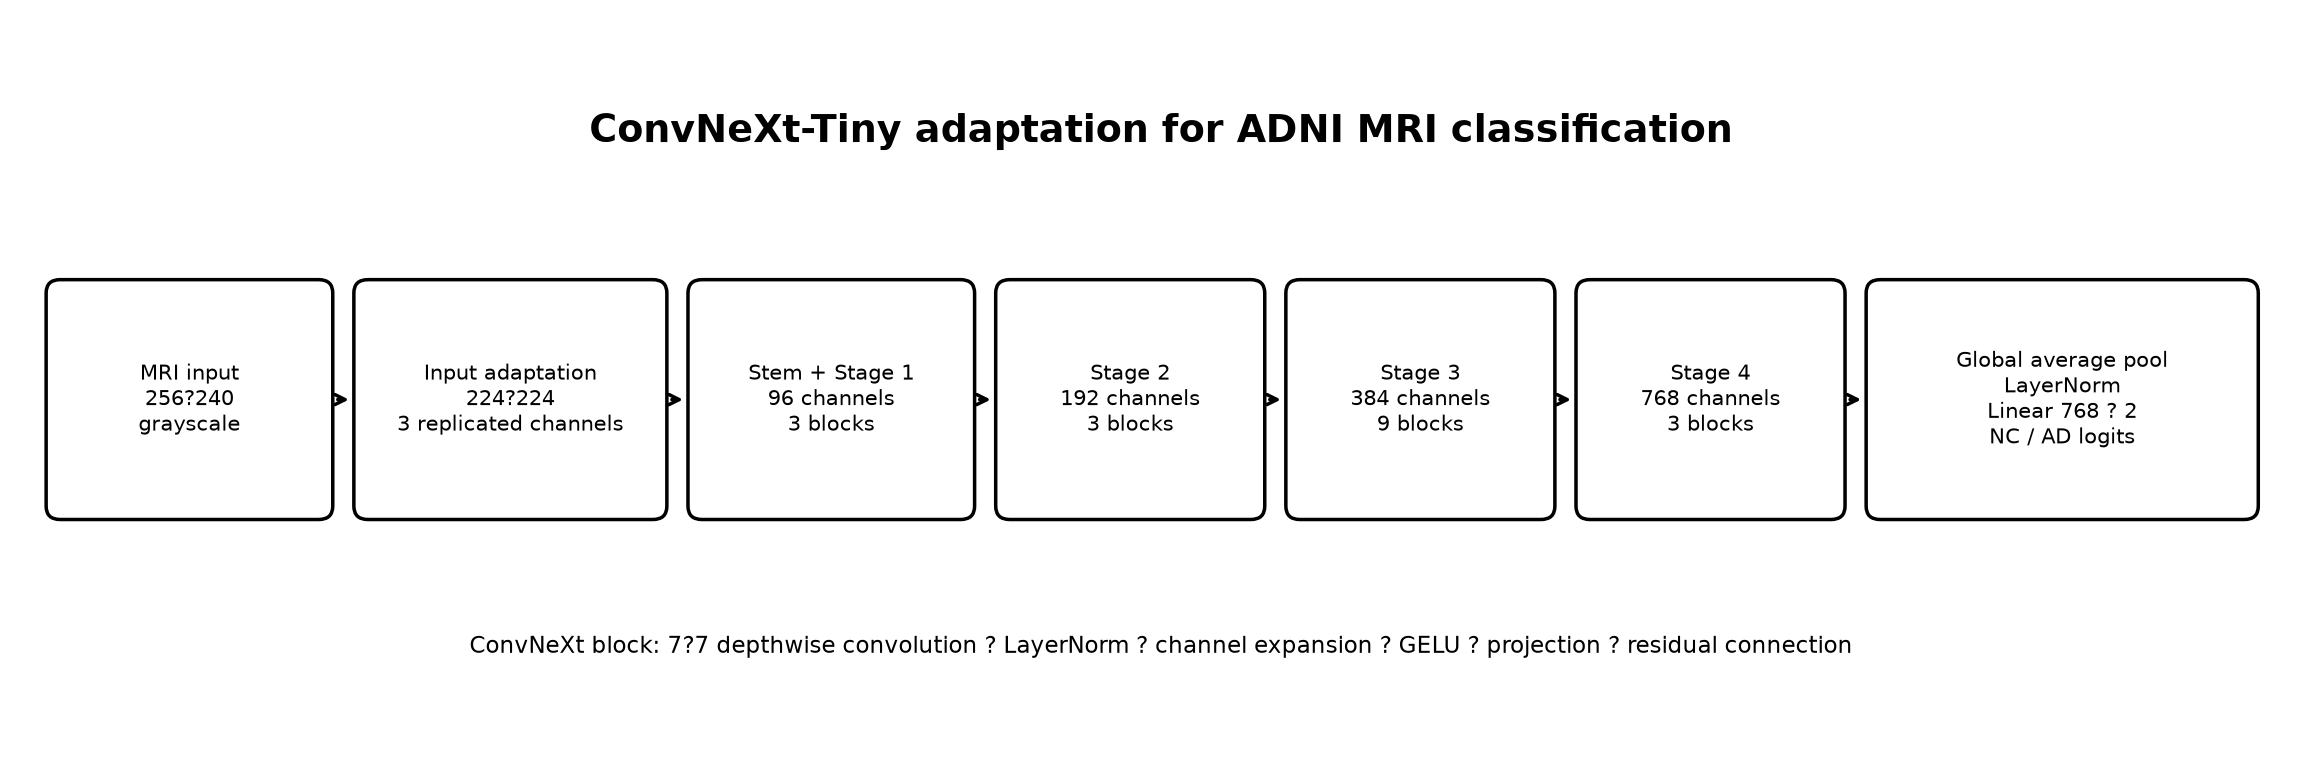
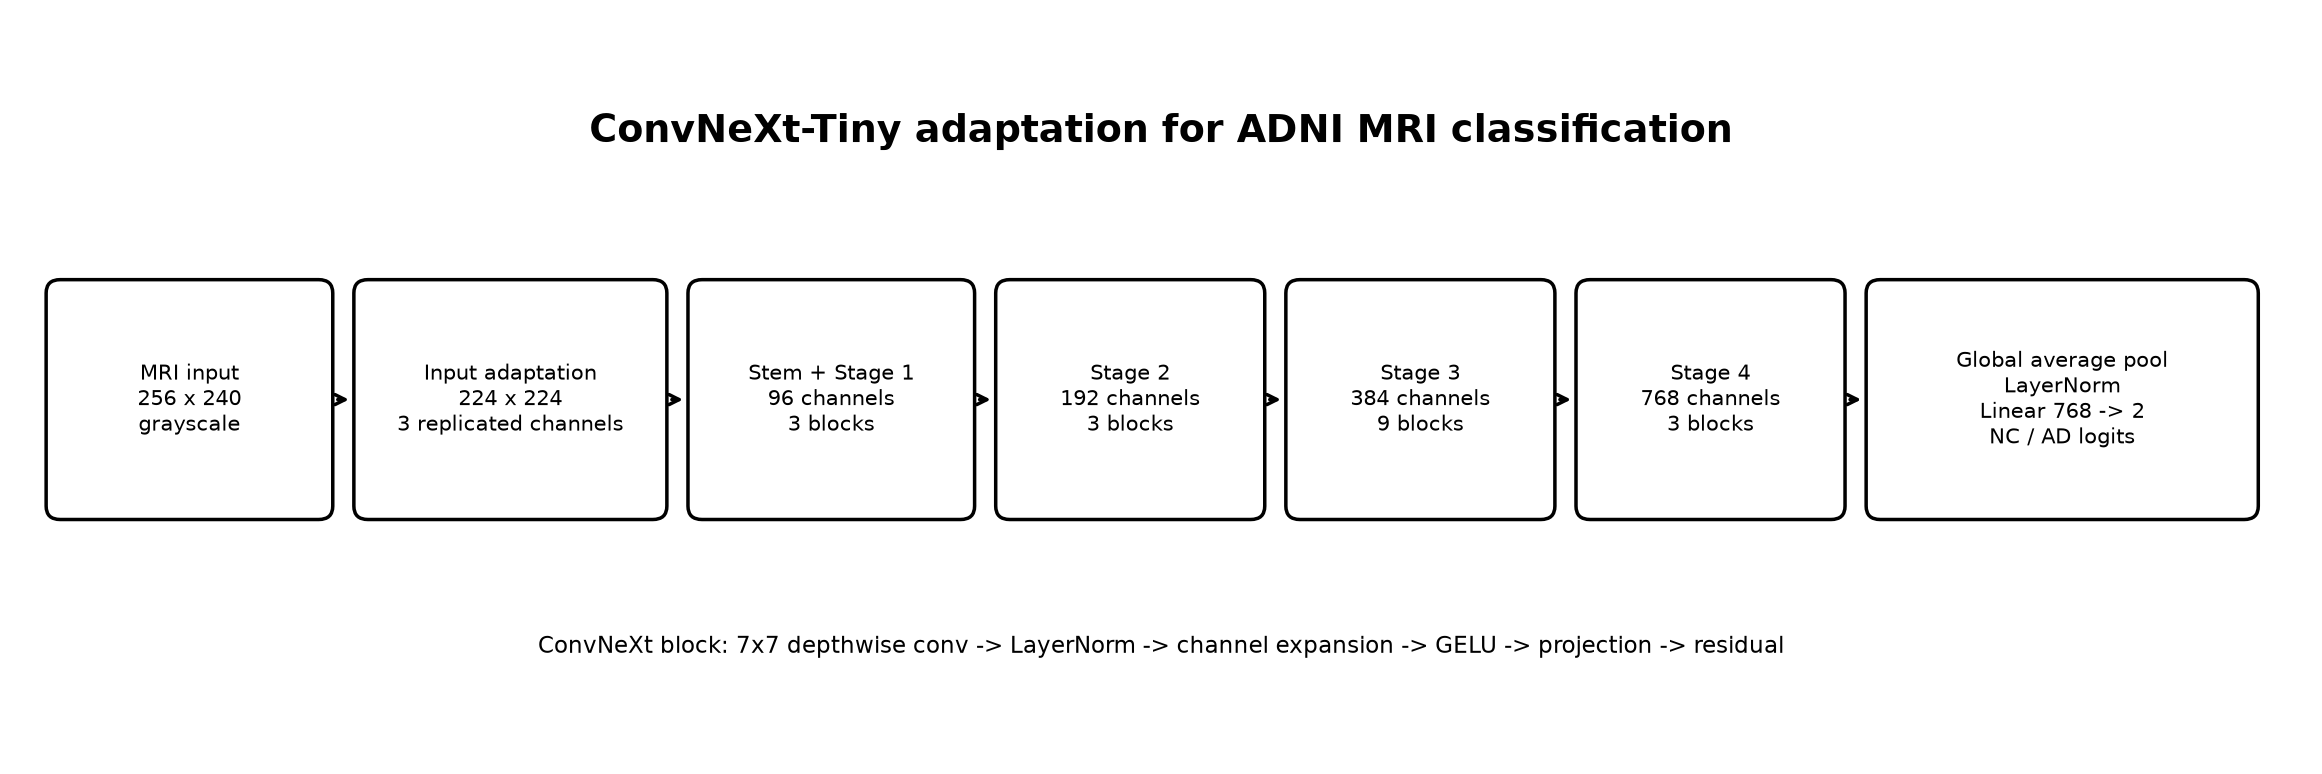
fix: repair README and figure text encoding

diff --git a/recognition/ConvNeXt_s4983318/README.md b/recognition/ConvNeXt_s4983318/README.md
@@ -82,23 +82,23 @@ The baseline is a four-block network with channel progression **3 → 16 → 32 
 
 `modules.py` constructs TorchVision `convnext_tiny` and replaces its final classifier layer with a two-output `torch.nn.Linear`. The recorded model uses **ImageNet-1K V1 pretrained weights** and fine-tunes the network for AD/NC. **27,821,666 parameters**. The architecture is **reused from TorchVision** rather than implemented independently layer-by-layer; this is disclosed for clarity and attribution [2, 3].
 
-ConvNeXt remains a convolutional neural network, but modernizes the conventional CNN design using several ideas associated with transformer-era vision systems. A ConvNeXt block first applies a **7 ? 7 depthwise convolution** to mix spatial information independently within each feature channel. It then applies **LayerNorm**, expands the channel representation using a pointwise transformation, applies **GELU**, projects the representation back to its original width, and adds a **residual connection**. This separates spatial mixing from channel mixing while preserving stable gradient flow through a deep network.
+ConvNeXt remains a convolutional neural network, but modernizes the conventional CNN design using several ideas associated with transformer-era vision systems. A ConvNeXt block first applies a **7 x 7 depthwise convolution** to mix spatial information independently within each feature channel. It then applies **LayerNorm**, expands the channel representation using a pointwise transformation, applies **GELU**, projects the representation back to its original width, and adds a **residual connection**. This separates spatial mixing from channel mixing while preserving stable gradient flow through a deep network.
 
 ConvNeXt-Tiny contains four hierarchical stages with block depths **[3, 3, 9, 3]** and channel widths **[96, 192, 384, 768]**. Downsampling between stages progressively reduces spatial resolution while increasing feature width. Earlier stages therefore represent relatively local intensity and edge patterns, while later stages combine information over larger image regions and can encode broader structural patterns.
 
-For this ADNI task, each grayscale MRI slice is resized and padded to **224 ? 224**, then replicated into three identical channels so that the pretrained ImageNet stem can be reused. After the final ConvNeXt stage, global average pooling and normalization produce a compact feature representation. The original ImageNet classification head is replaced by a **768 ? 2** linear layer producing raw NC/AD logits.
+For this ADNI task, each grayscale MRI slice is resized and padded to **224 x 224**, then replicated into three identical channels so that the pretrained ImageNet stem can be reused. After the final ConvNeXt stage, global average pooling and normalization produce a compact feature representation. The original ImageNet classification head is replaced by a **768 -> 2** linear layer producing raw NC/AD logits.
 
 ![ConvNeXt-Tiny adaptation for ADNI classification](figures/convnext_architecture.png)
 
 | ConvNeXt component | Working principle | Role in this ADNI pipeline |
 |---|---|---|
-| Input adaptation | Grayscale slice ? 3 replicated channels, 224 ? 224 | Matches the pretrained TorchVision input interface |
+| Input adaptation | Grayscale slice -> 3 replicated channels, 224 x 224 | Matches the pretrained TorchVision input interface |
 | Stem / downsampling | Strided convolutions progressively reduce spatial resolution | Builds a hierarchical representation while controlling computation |
-| ConvNeXt block | 7 ? 7 depthwise spatial mixing + LayerNorm + pointwise channel mixing + GELU + residual connection | Combines spatial and channel information efficiently |
+| ConvNeXt block | 7 x 7 depthwise spatial mixing + LayerNorm + pointwise channel mixing + GELU + residual connection | Combines spatial and channel information efficiently |
 | Four stages | Depths [3, 3, 9, 3], widths [96, 192, 384, 768] | Progresses from lower-level appearance cues to broader structural features |
-| Classification head | Global average pooling + normalization + 768 ? 2 linear layer | Produces raw NC/AD logits |
+| Classification head | Global average pooling + normalization + 768 -> 2 linear layer | Produces raw NC/AD logits |
 
-The baseline and ConvNeXt both output logits `[batch, 2]`. The loss is `CrossEntropyLoss` on unnormalized logits; softmax is applied only when probabilities are needed for evaluation. ConvNeXt's substantially greater representational capacity can improve recognition, but that capacity may also amplify shortcut features or produce sharply confident mistakes. This motivates the calibration and failure analysis in Sections 7?8.
+The baseline and ConvNeXt both output logits `[batch, 2]`. The loss is `CrossEntropyLoss` on unnormalized logits; softmax is applied only when probabilities are needed for evaluation. ConvNeXt's substantially greater representational capacity can improve recognition, but that capacity may also amplify shortcut features or produce sharply confident mistakes. This motivates the calibration and failure analysis in Sections 7-8.
 
 ### 4.3 Experimental settings and checkpoint policy
 
@@ -222,9 +222,9 @@ A model input is one preprocessed MRI slice represented as a tensor of shape `[3
 
 | Stage | Example |
 |---|---|
-| Preprocessed input | One grayscale MRI slice ? tensor `[3, 224, 224]` |
+| Preprocessed input | One grayscale MRI slice -> tensor `[3, 224, 224]` |
 | Slice ground truth | NC |
-| Slice output | `P(AD) = 0.50146` ? predicted AD, confidence 0.50146 |
+| Slice output | `P(AD) = 0.50146` -> predicted AD, confidence 0.50146 |
 | Patient aggregation | Mean `P(AD) = 0.0978` across that patient's slices |
 | Patient output | Predicted NC, confidence 0.9022 |
 | Review rule at 0.90 | Patient classification provisionally accepted |
@@ -290,7 +290,7 @@ These intervals quantify sampling uncertainty within the 102-patient held-out te
 
 #### 6.2.2 Paired comparison of ConvNeXt and the baseline
 
-Because both models were evaluated on the **same 102 patients**, model differences were also analysed using a **paired stratified patient bootstrap**. Each bootstrap replicate sampled the same patient IDs for both models while preserving the observed NC/AD composition. The reported difference is `ConvNeXt ? Baseline`.
+Because both models were evaluated on the **same 102 patients**, model differences were also analysed using a **paired stratified patient bootstrap**. Each bootstrap replicate sampled the same patient IDs for both models while preserving the observed NC/AD composition. The reported difference is `ConvNeXt - Baseline`.
 
 | Metric difference | Point difference | 95% paired bootstrap CI |
 |---|---:|---:|
@@ -343,31 +343,31 @@ ConvNeXt would send fewer cases to review at a similar observed accepted-case ac
 
 ## 8. Failure case autopsy: five actual test-set slice errors
 
-Five errors were chosen deterministically by the evaluation script: two high-confidence **AD ? NC** (false negatives), two high-confidence **NC ? AD** (false positives), and one low-confidence/borderline incorrect slice. They correspond to **five distinct patients**. The table checks whether each slice error persists after patient-level aggregation. Individual patient identifiers and original MRI pictures are intentionally excluded from this public README pending data-governance review.
+Five errors were chosen deterministically by the evaluation script: two high-confidence **AD -> NC** (false negatives), two high-confidence **NC -> AD** (false positives), and one low-confidence/borderline incorrect slice. They correspond to **five distinct patients**. The table checks whether each slice error persists after patient-level aggregation. Individual patient identifiers and original MRI pictures are intentionally excluded from this public README pending data-governance review.
 
-| Case | True ? predicted slice | Slice confidence | Patient-level result | Patient `P(AD)` | Patient confidence | Review at 0.90 |
+| Case | True -> predicted slice | Slice confidence | Patient-level result | Patient `P(AD)` | Patient confidence | Review at 0.90 |
 |---|---|---:|---|---:|---:|---|
-| 1 | AD ? NC | 0.99985 | **Wrong: AD ? NC** | 0.3712 | 0.6288 | Referred |
-| 2 | AD ? NC | 0.99969 | **Correct: AD ? AD** | 0.7259 | 0.7259 | Referred |
-| 3 | NC ? AD | 0.99997 | **Wrong: NC ? AD** | 0.9886 | 0.9886 | **Wrongly accepted** |
-| 4 | NC ? AD | 0.99995 | **Wrong: NC ? AD** | 0.8284 | 0.8284 | Referred |
-| 5 | NC ? AD | 0.50146 | **Correct: NC ? NC** | 0.0978 | 0.9022 | Correctly accepted |
+| 1 | AD -> NC | 0.99985 | **Wrong: AD -> NC** | 0.3712 | 0.6288 | Referred |
+| 2 | AD -> NC | 0.99969 | **Correct: AD -> AD** | 0.7259 | 0.7259 | Referred |
+| 3 | NC -> AD | 0.99997 | **Wrong: NC -> AD** | 0.9886 | 0.9886 | **Wrongly accepted** |
+| 4 | NC -> AD | 0.99995 | **Wrong: NC -> AD** | 0.8284 | 0.8284 | Referred |
+| 5 | NC -> AD | 0.50146 | **Correct: NC -> NC** | 0.0978 | 0.9022 | Correctly accepted |
 
 ### 8.1 Engineering autopsy of the five cases
 
-**Case 1 ? high-confidence false negative that persists at patient level.**
+**Case 1 - high-confidence false negative that persists at patient level.**
 **Observation:** an AD slice was predicted NC with confidence **0.99985**. **Evidence:** patient aggregation also remained wrong, with patient `P(AD) = 0.3712` and confidence 0.6288. **Plausible trigger:** slice-position, acquisition, contrast or anatomical-sampling variation may have shifted the observed appearance toward features learned for NC; the available evidence does not establish a causal anatomical explanation. **Operational consequence:** the slice confidence is dangerously misleading, although the patient-level 0.90 rule would still refer this patient because aggregate confidence is low. **Mitigation:** preserve patient/scan aggregation, investigate performance by slice position and scan type, and use validation-only calibration or attribution analysis before relying on confidence.
 
-**Case 2 ? high-confidence false negative corrected by aggregation.**
+**Case 2 - high-confidence false negative corrected by aggregation.**
 **Observation:** an AD slice was predicted NC with confidence **0.99969**. **Evidence:** averaging across the patient's other slices reversed the decision to AD with `P(AD) = 0.7259`; the patient remains below the 0.90 automation threshold and would be referred. **Plausible trigger:** an individual slice may omit or under-represent discriminative anatomy even when the broader scan contains sufficient evidence. **Operational consequence:** single-slice predictions should not be treated as independent clinical cases. **Mitigation:** prefer scan/patient aggregation and quantify which slice positions contribute the most reliable evidence.
 
-**Case 3 ? high-confidence false positive that defeats the review threshold.**
+**Case 3 - high-confidence false positive that defeats the review threshold.**
 **Observation:** an NC slice was predicted AD with confidence **0.99997**. **Evidence:** the patient was also predicted AD with `P(AD) = 0.9886`, so the fixed 0.90 rule would **wrongly accept** the error. **Plausible trigger:** texture, scanner/acquisition characteristics or anatomical sampling may act as shortcuts correlated with AD in the training data, although this remains a hypothesis. **Operational consequence:** confidence thresholding alone cannot guarantee safe triage because some errors remain confidently wrong after aggregation. **Mitigation:** investigate class-conditional calibration, out-of-distribution checks and feature attribution, and retain human review for deployment-sensitive decisions until external validation is available.
 
-**Case 4 ? high-confidence slice false positive caught by patient-level review.**
+**Case 4 - high-confidence slice false positive caught by patient-level review.**
 **Observation:** an NC slice was predicted AD with confidence **0.99995**. **Evidence:** the patient-level score was less extreme (`P(AD) = 0.8284`), so the 0.90 rule would refer the case. **Plausible trigger:** the same shortcut or slice-coverage hypotheses as Case 3 are possible, but aggregation weakens the spurious evidence. **Operational consequence:** patient-level aggregation improves robustness but does not eliminate errors. **Mitigation:** retain aggregation and analyse whether specific scans or slice ranges disproportionately drive false positives.
 
-**Case 5 ? borderline slice error corrected by a confident patient aggregate.**
+**Case 5 - borderline slice error corrected by a confident patient aggregate.**
 **Observation:** an NC slice fell just across the decision boundary with `P(AD) = 0.50146`. **Evidence:** the patient's aggregate was `P(AD) = 0.0978`, correctly predicting NC with confidence 0.9022. **Plausible trigger:** the slice itself is ambiguous to the trained classifier rather than representing a clear high-confidence failure. **Operational consequence:** a hard 0.5 slice threshold can produce unstable decisions near the boundary. **Mitigation:** use patient-level aggregation and preserve continuous probabilities rather than interpreting a single binary slice decision in isolation.
 
 **What can and cannot be concluded:** the selected cases exhibit differences in anatomical coverage, brightness and local shape, but these experiments do not prove which visual cues caused an individual error. The autopsy therefore separates **observed prediction behaviour** from **hypotheses about failure triggers**. Controlled follow-up should examine per-scan aggregation, slice-position stratification, scanner/site robustness, temperature scaling and Grad-CAM/feature attribution before stronger causal claims are made.
@@ -401,21 +401,21 @@ ConvNeXt offers better recognition and higher patient-level review coverage, but
 
 ```text
 recognition/ConvNeXt_s4983318/
-??? README.md                # Technical report and reproducibility
-??? modules.py               # CNN components and TorchVision ConvNeXt builder
-??? dataset.py               # Audit, patient-level split, Dataset and DataLoader
-??? train.py                 # Training, early stopping, logging and weights
-??? predict.py               # Evaluation, confidence and error analysis
-??? test_dataset.py          # DataLoader smoke test
-??? test_models.py           # Baseline forward/backward smoke test
-??? test_convnext.py         # ConvNeXt forward/backward smoke test
-??? figures/
-    ??? workflow.png
-    ??? convnext_architecture.png
-    ??? training_loss.png
-    ??? test_performance.png
-    ??? calibration_comparison.png
-    ??? paired_bootstrap_delta.png
+|-- README.md                # Technical report and reproducibility
+|-- modules.py               # CNN components and TorchVision ConvNeXt builder
+|-- dataset.py               # Audit, patient-level split, Dataset and DataLoader
+|-- train.py                 # Training, early stopping, logging and weights
+|-- predict.py               # Evaluation, confidence and error analysis
+|-- test_dataset.py          # DataLoader smoke test
+|-- test_models.py           # Baseline forward/backward smoke test
+|-- test_convnext.py         # ConvNeXt forward/backward smoke test
+`-- figures/
+    |-- workflow.png
+    |-- convnext_architecture.png
+    |-- training_loss.png
+    |-- test_performance.png
+    |-- calibration_comparison.png
+    `-- paired_bootstrap_delta.png
 ```
 
 The following administrative steps must be completed before the final course submission:
